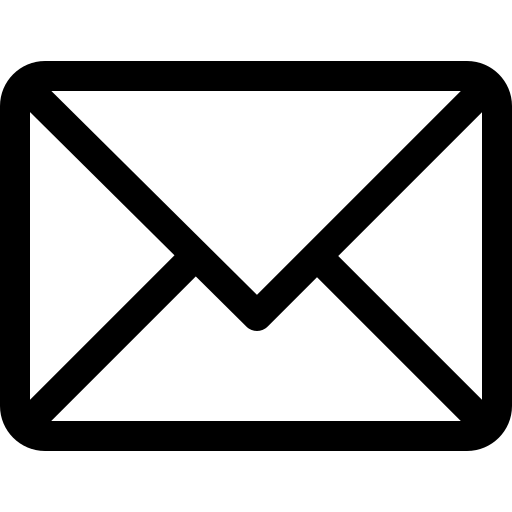
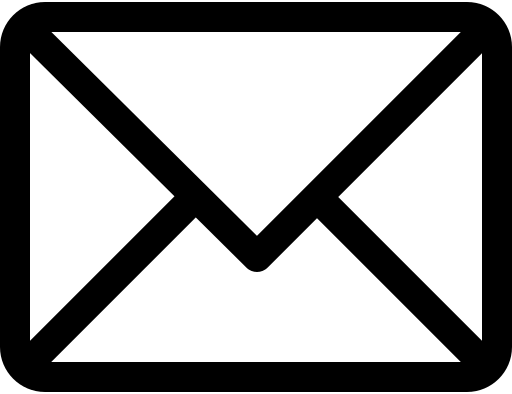
improved readability

diff --git a/styles/style.css b/styles/style.css
@@ -39,14 +39,18 @@ h1 {
 h2 {
   font-family: var(--h-font), sans-serif;
   color: var(--h-color);
+  font-size: 90px;
   font-weight:normal;
   padding: 0px;
   margin: 0px;
 }
 h3 {
   font-family: var(--h-font), sans-serif;
-  color: var(--p-color);
-  font-size: 22px;
+  color: var(--h-color);
+  font-size: 70px;
+  font-weight:normal;
+  padding: 0px;
+  margin: 0px;
 }
 p {
   font-family: var(--p-font), sans-serif;
@@ -102,26 +106,27 @@ a:hover {
 #home-header {
   color: var(--h-color);
   font-size: 100px;
-  padding:0px 60px 17px;
+  padding:0px 60px 0px;
 }
 #home-content{ 
   color: var(--font-color);
-  padding:30px 30px;
   display: flex;
   justify-content: space-around;
-  align-content: center;
+  align-items: center;
   flex-flow: wrap;
+  padding:0px 30px;
 }
 #home-paragraph{
-  font-size: 80px;
-  width:67%;
-  line-height: 70px;
+  font-size: 87px;
+  max-width:67%;
+  line-height: 90px;
 }
 #me-pic {
   height:300px;
   width:300px;
   border: 3px solid #e65e60;
   border-radius: 50%;
+  margin-right:30px;
 }
 
 /* about / whydev */
@@ -133,24 +138,28 @@ a:hover {
   padding-bottom: 120px;
 }
 #about-header{
-
+padding:40px;
+text-align: center;
 }
 #about-content {
   background-color: whitesmoke;
-  padding: 50px 120px;
-  width:47%;
   box-shadow: 0 10px 20px rgba(0,0,0,0.19);
-  line-height: 35px;
   border-radius: 5px;
+  padding: 50px 120px;
+  width:48%;
+  line-height: 35px;
 }
 
 /* projects */
 #projects {
-  padding: 90px 50px;
+  margin:50px 0px;
 }
 #projects-header {
-  font-size: 60px;
+  font-size: 100px;
   text-align: center;
+}
+#projects-subtitle {
+  font-size: 16px;
 }
 #projects-container {
   display: flex;
@@ -161,18 +170,20 @@ a:hover {
   border-radius: 5px;
 }
 .project-img {
-  width: 370px;
+  width: 270px;
   border-radius: 5px 5px 0px 0px;
   display: block;
+  box-shadow: 0 10px 20px rgba(0,0,0,0.19);
 }
 figcaption {
   font-family: var(--font), sans-serif;
   background-color: var(--h-color);
   color: ghostwhite;
-  font-size: 23px;
+  font-size: 16px;
   text-align: center;
   padding: 15px;
   border-radius: 0px 0px 5px 5px;
+  box-shadow: 0 10px 20px rgba(0,0,0,0.19);
 }
 
 /* contact */
@@ -187,19 +198,14 @@ figcaption {
   text-decoration: none;
   font-family: var(--h-font);
   color: var(--h-color);
-  font-size: 80px;
+  font-size: 100px;
   padding:0px;
   margin:0px;
 }
 #social-media {
   display: flex;
-  flex-direction: row;
   justify-content: center;
   align-items: center;
-}
-.social-media-label {
-  letter-spacing: .3px;
-  font-size:20px;
 }
 .icon {
   padding:10px;
@@ -210,8 +216,10 @@ figcaption {
 .icon a{
   border:none;
 }
-
-
+#icon-email {
+  width: 50px;
+  height: 40px;
+}
 /* footer */
 #footer {
   background-color: whitesmoke;
@@ -237,6 +245,9 @@ figcaption {
     vertical-align: top;
     align-self:center;
   }
+  #home {
+    padding:0;
+  }
   #home-header{
     text-align: center; 
     padding:0px;
@@ -245,17 +256,18 @@ figcaption {
     width:100%;
     line-height: 60px;
     padding:0px;
+    font-size:60px;
   }
   #about-content {
     width:80%;
   }
   .main-content{ 
-    overflow-y: scroll;
+    overflow-y: auto;
     display: inline-block;
     padding: 50px 90px;
   }
   p {
-    font-size: 17px; 
+    font-size: 19px; 
     line-height: 36px;
   }
   .project-img {

diff --git a/index.html b/index.html
@@ -53,10 +53,10 @@
 
         <!-- about section -->
         <section class="main-section" id="about">
-            <header class="main-header" id="about-header">
-
-            </header>
             <div class="main-content" id="about-content">
+                <header class="main-header" id="about-header">
+                <h3>About Me</h3>
+            </header>
                 <p>
                     ★ Incoming senior at UC Santa Cruz majoring in <a href="https://catalog.ucsc.edu/Current/General-Catalog/Academic-Units/Baskin-School-of-Engineering/Computer-Science-and-Engineering/Technology-and-Information-Management-BS" target="_blank">Technology and Information Management</a>.
                     <br>
@@ -77,7 +77,7 @@
                     💻       With coding, I get to use my visual and technical superpowers. Learning web development makes me view every website I visit differently, knowing that someone thoughtfully designed its layout and components for a reason.
                 </p>
                 <p>
-                    👍🏼      I think it's pretty cool that I can build an entire website from scratch that many people will see and use. I'm eager to apply my knowledge and learn about how it all works!
+                    👍🏼      It's pretty cool that I can build a website from scratch that many people can see and use. I'm eager to apply my knowledge and learn about how it all works!
                 </p>
                 <br>
                 
@@ -88,7 +88,7 @@
         <section id="projects">
             <header id="projects-header">
                 <h2>Projects</h2>
-                <p>(work in progress)</p>
+                <p id="projects-subtitle">(work in progress)</p>
             </header>
             <div id="projects-container">
                 <div class="project-tile">
@@ -131,7 +131,7 @@
 <!-- contact section -->
 <section class="main-section" id="contact">
     <header class="main-header" id="contact-header"> 
-        <h2>Let's connect,</h2>
+        <span>Let's connect,</span>
     </header>
     <br><br>
     <div id="social-media">
@@ -140,16 +140,14 @@
                 <img src="https://image.flaticon.com/icons/svg/25/25231.svg" class="icon" alt="github">
             </a>
         </div>
-        <br>
         <div class="icon">
             <a href="https://www.linkedin.com/in/belinda-yu/" target = "_blank">
                 <img src="./icons/linkedin.png" class="icon" alt="linkedin"> 
             </a>
         </div>
-        <br>
         <div class="icon">
             <a href="mailto:belinday@ucsc.edu" target = "_blank">
-                <img src="./icons/email.png" class="icon" alt="email">
+                <img src="./icons/email.png" class="icon" id="icon-email" alt="email">
             </a>
         </div>
     </div>
